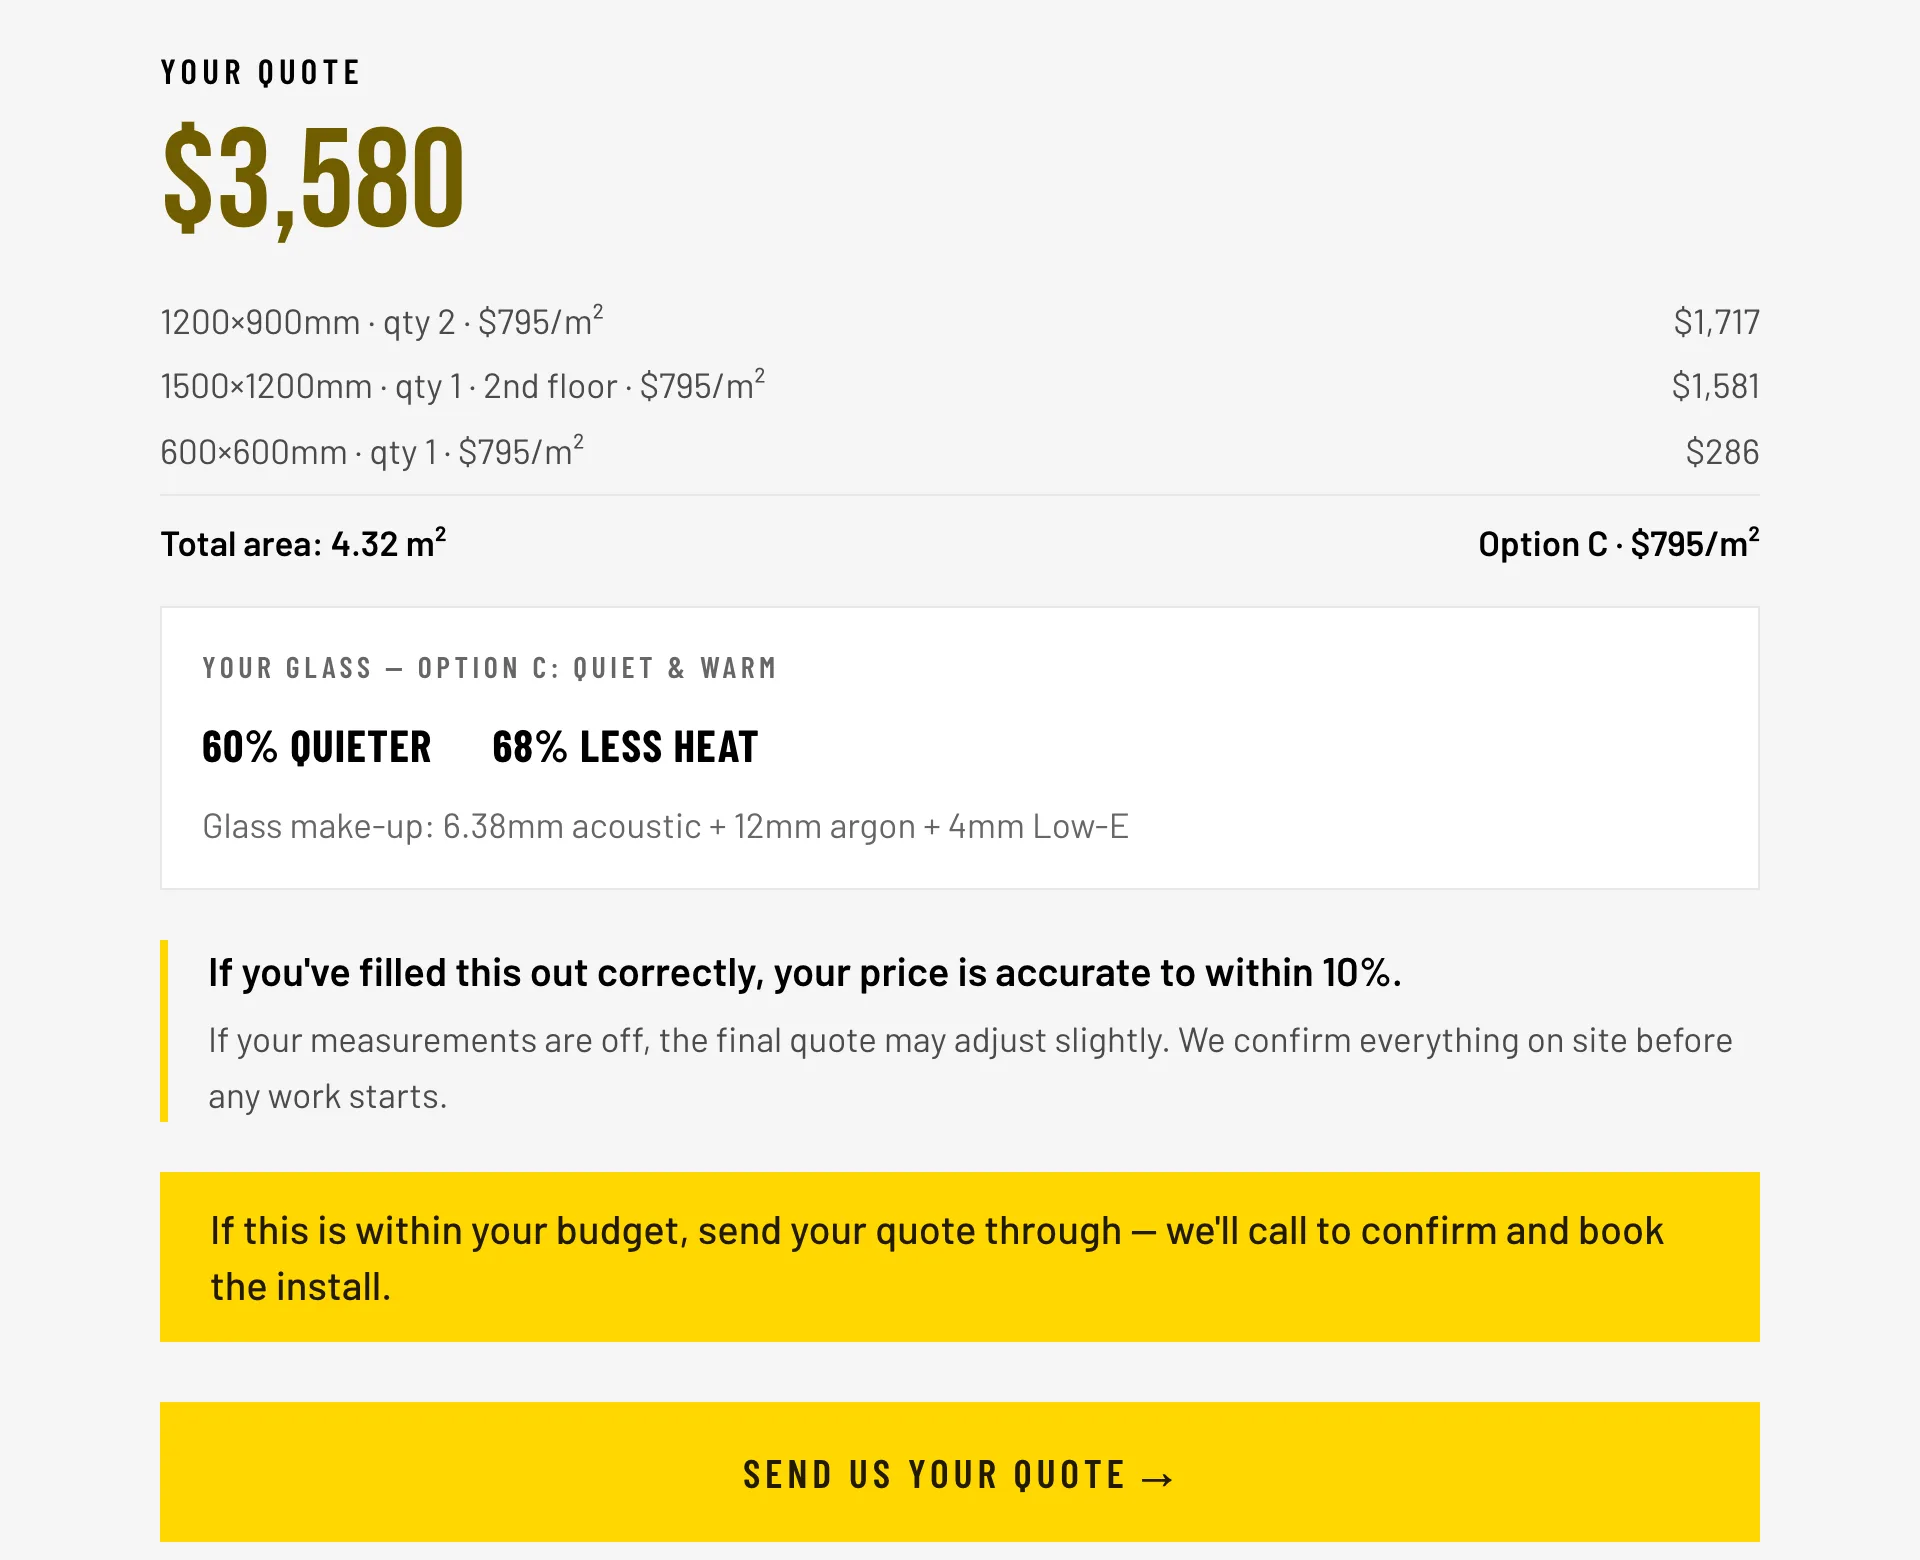
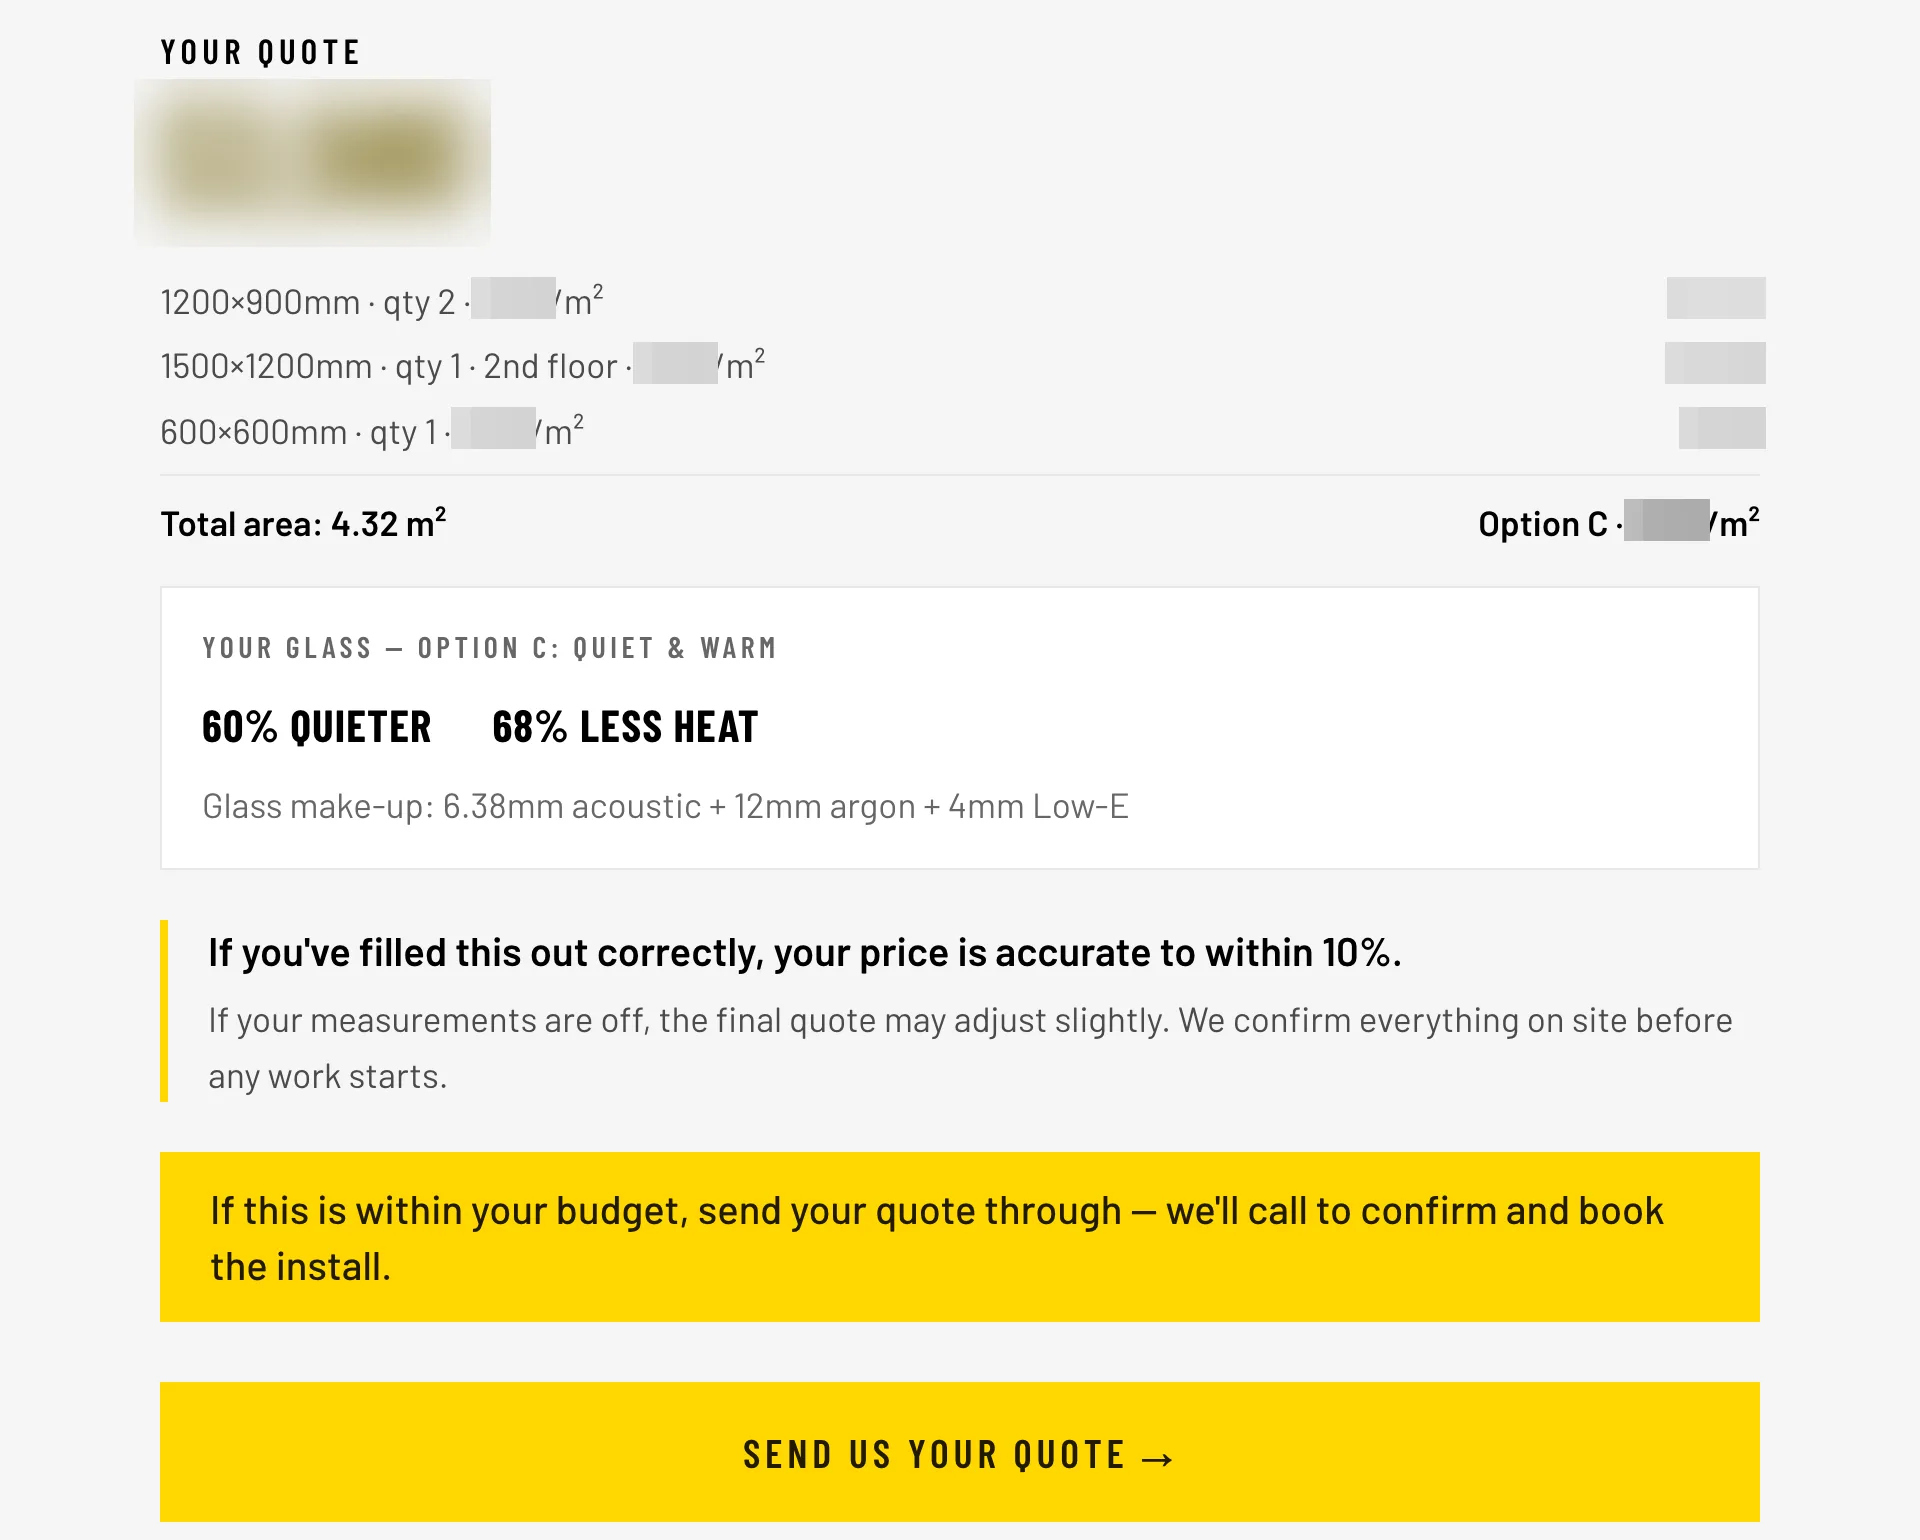
Blur the client's prices in the King Double Glazing screenshots
Every dollar amount in the three quote-tool shots is now blurred, and
the alt text and captions say so.

diff --git a/src/app/projects/king-glazing/page.tsx b/src/app/projects/king-glazing/page.tsx
@@ -123,7 +123,7 @@ export default function KingGlazingPage() {
             alt="King Double Glazing home page on desktop: a yellow promo bar, the headline Why choose the King double glazing system, a Generate my quote button and a 10-year warranty badge"
             width={2880}
             height={1800}
-            caption="The home page. All screenshots are the business's own code from its repository, run on my machine with analytics blocked. The window sizes in the quote are made up."
+            caption="The home page. All screenshots are the business's own code from its repository, run on my machine with analytics blocked. The window sizes in the quote are made up, and prices are blurred."
             priority
           />
         </div>
@@ -170,7 +170,7 @@ export default function KingGlazingPage() {
         <div data-reveal style={{ marginBottom: 16 }}>
           <Shot
             src="/projects/kdg/estimate-options.webp"
-            alt="Four glass options, A to D, each with how much quieter and how much less heat it lets through and its price per square metre; option C is selected"
+            alt="Four glass options, A to D, each with how much quieter and how much less heat it lets through and its price per square metre, blurred; option C is selected"
             width={1920}
             height={1480}
             caption="Step one: the glass. All four prices stay on screen."
@@ -180,7 +180,7 @@ export default function KingGlazingPage() {
           <div style={{ flex: '0 1 220px', minWidth: 0 }}>
             <Shot
               src="/projects/kdg/estimate-windows-mobile.webp"
-              alt="Three window rows on a phone, each with height, width and quantity, a second-storey checkbox and the area worked out underneath"
+              alt="Three window rows on a phone, each with height, width and quantity, a second-storey checkbox with its charge blurred, and the area worked out underneath"
               width={1170}
               height={2532}
               caption="Step two on a phone: one row per window."
@@ -190,9 +190,9 @@ export default function KingGlazingPage() {
           <div style={{ flex: '1 1 360px', minWidth: 0 }}>
             <Shot
               src="/projects/kdg/estimate-quote.webp"
-              alt="The quote: the total in large type, a line per window with its price, total area 4.32 square metres, the glass make-up, a note that the price is accurate to within 10%, and a Send us your quote button"
+              alt="The quote: the total in large type and a line per window, with every price blurred, total area 4.32 square metres, the glass make-up, a note that the price is accurate to within 10%, and a Send us your quote button"
               width={1920}
-              height={1560}
+              height={1540}
               caption="The result: one price, the working behind it, and the glass it buys."
             />
           </div>
